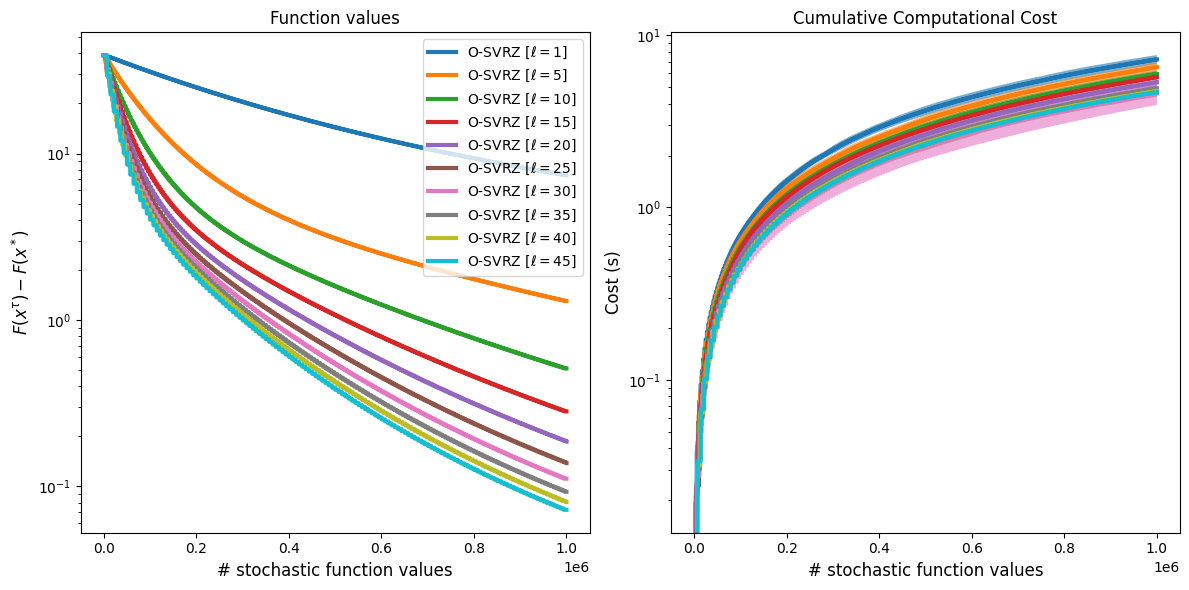
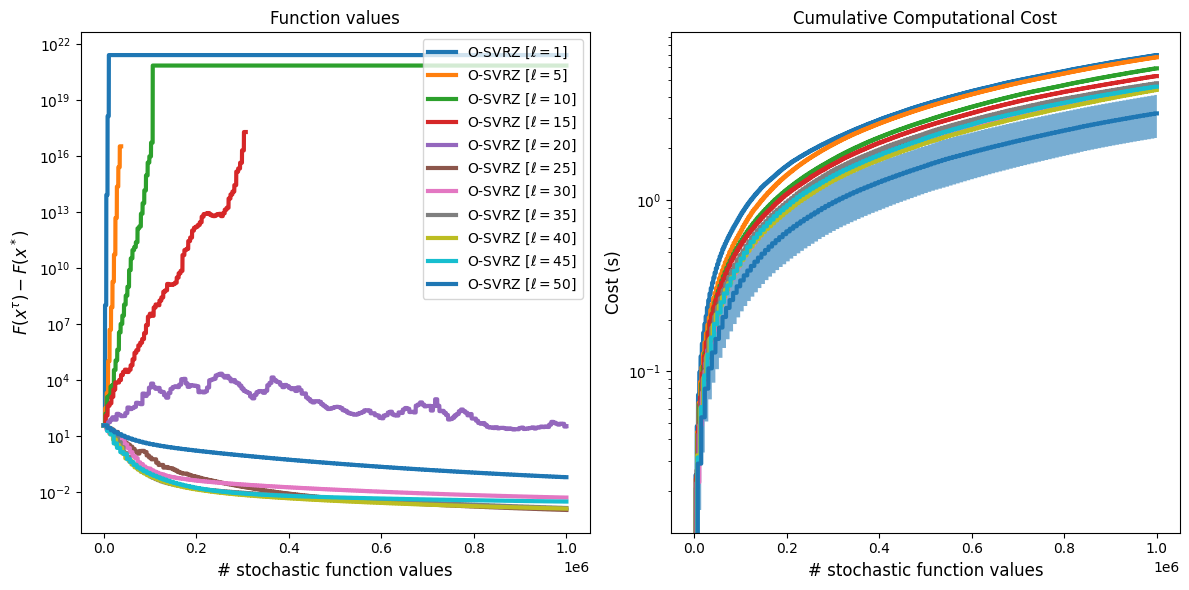
Updated targets

diff --git a/experiments/targets.py b/experiments/targets.py
@@ -89,7 +89,7 @@ class UniversalPerturbation(TargetFunction):
     def _apply_perturbation(self, images, perturbations):
         perturbations = perturbations.view(perturbations.shape[0], 1, 28, 28)
         #transforms.Normalize((0.1307,), (0.3081,))(perturbed_data)
-        return self.normalize((self.denorm(images) + perturbations))
+        return (self.denorm(images) + perturbations).clip(0, 1)
         
     def __call__(self, x, z=None, elem_wise = False):
         if z is None:
@@ -100,8 +100,10 @@ class UniversalPerturbation(TargetFunction):
                 adv_imgs = self._apply_perturbation(X, x)
                 adv_probs = self.net(adv_imgs)
                 loss = F.nll_loss(adv_probs, y.to(dtype=torch.int64), reduction='sum')
-               # print("[{}/{}] loss : {}".format(i, self.data.X.shape[0] // self.batch_size, loss))
-                losses += loss
+                l2 = torch.norm(X - adv_imgs, p=2, dim=(1, 2, 3)).square().sum() / torch.norm(X , p=2).square().sum()
+#                print(adv_imgs.shape, adv_probs.shape, x.shape, loss.shape, l2.shape)
+                losses += -loss + l2
+           #     print(adv_probs.max(1)[1], y)
             losses /= self.data.X.shape[0]
             return losses
 
@@ -113,9 +115,11 @@ class UniversalPerturbation(TargetFunction):
             labels = torch.tile(labels, (adv_imgs.shape[0], ))
             adv_probs = self.net(adv_imgs)
             loss = F.nll_loss(adv_probs, labels.to(dtype=torch.int64), reduction='none')
-            #print(loss)
-            losses += loss
+            l2 = torch.norm(imgs - adv_imgs,p=2,dim=(1,2,3)).square() / torch.norm(imgs,p=2).square()
+           # print(adv_imgs.shape, adv_probs.shape, loss.shape, l2.shape)
+            losses += -loss + l2
         losses /= z.shape[0]
+        print(losses)
         #print(losses)
         return losses.view(-1, 1)
         # print("LOSS: ", loss, x.shape)

diff --git a/svrz/optimizers/sszd.py b/svrz/optimizers/sszd.py
@@ -40,8 +40,10 @@ class SSZD(AbsOptimizer):
             it_times.append(iteration_time)
             lst_evals.append(self.P.l + 1)
             iterator.set_postfix({
+#                'x' : x_k,
                 'k' : f"{k}/{T}",
                 'f_k' : f_values[-1],
+                '|g_k|' : g_k.norm().item(),
                 'time' : iteration_time
             })
         return dict(x = x_k, f_values = f_values, lst_evals = lst_evals, it_times = it_times, num_evals=num_evals)

diff --git a/experiments/synthetic/changing_l.py b/experiments/synthetic/changing_l.py
@@ -67,7 +67,7 @@ h = lambda k : 1e-7#max(1e-5 / sqrt(k + 1), 1e-9)
 reps = 10
 
 m = 50
-num_directions = [1] + [i for i in range(5, d, 5)]
+num_directions = [1] + [i for i in range(5, d + 5, 5)]
 for l in num_directions:
     osvrz = OSVRZ(P = QRDirections(d = d, l = l, seed = seed, device = device, dtype = dtype), batch_size=1, seed=seed)
     cost_per_iter = (2 * (l + 1)  * m + d * (d + 1) )

diff --git a/experiments/datasets.py b/experiments/datasets.py
@@ -45,7 +45,7 @@ class MNISTDataset(Dataset):
     def _initialize(self):
         self.X, self.y = [], []
         for (img, label) in self.data:
-            if len(self.X) > 500:
+            if len(self.X) > 1000:
                 break
             self.X.append(img[0, :, :, :].tolist())
             self.y.append(label.item())

diff --git a/experiments/synthetic/plot_results_changing_l.py b/experiments/synthetic/plot_results_changing_l.py
@@ -16,6 +16,7 @@ methods = [
     ('O-SVRZ $[\\ell = 35]$' , f'{directory}/osvrz_35.log'),
     ('O-SVRZ $[\\ell = 40]$' , f'{directory}/osvrz_40.log'),
     ('O-SVRZ $[\\ell = 45]$' , f'{directory}/osvrz_45.log'),
+    ('O-SVRZ $[\\ell = 50]$' , f'{directory}/osvrz_50.log'),
 ]
 budget = 1000000
 
